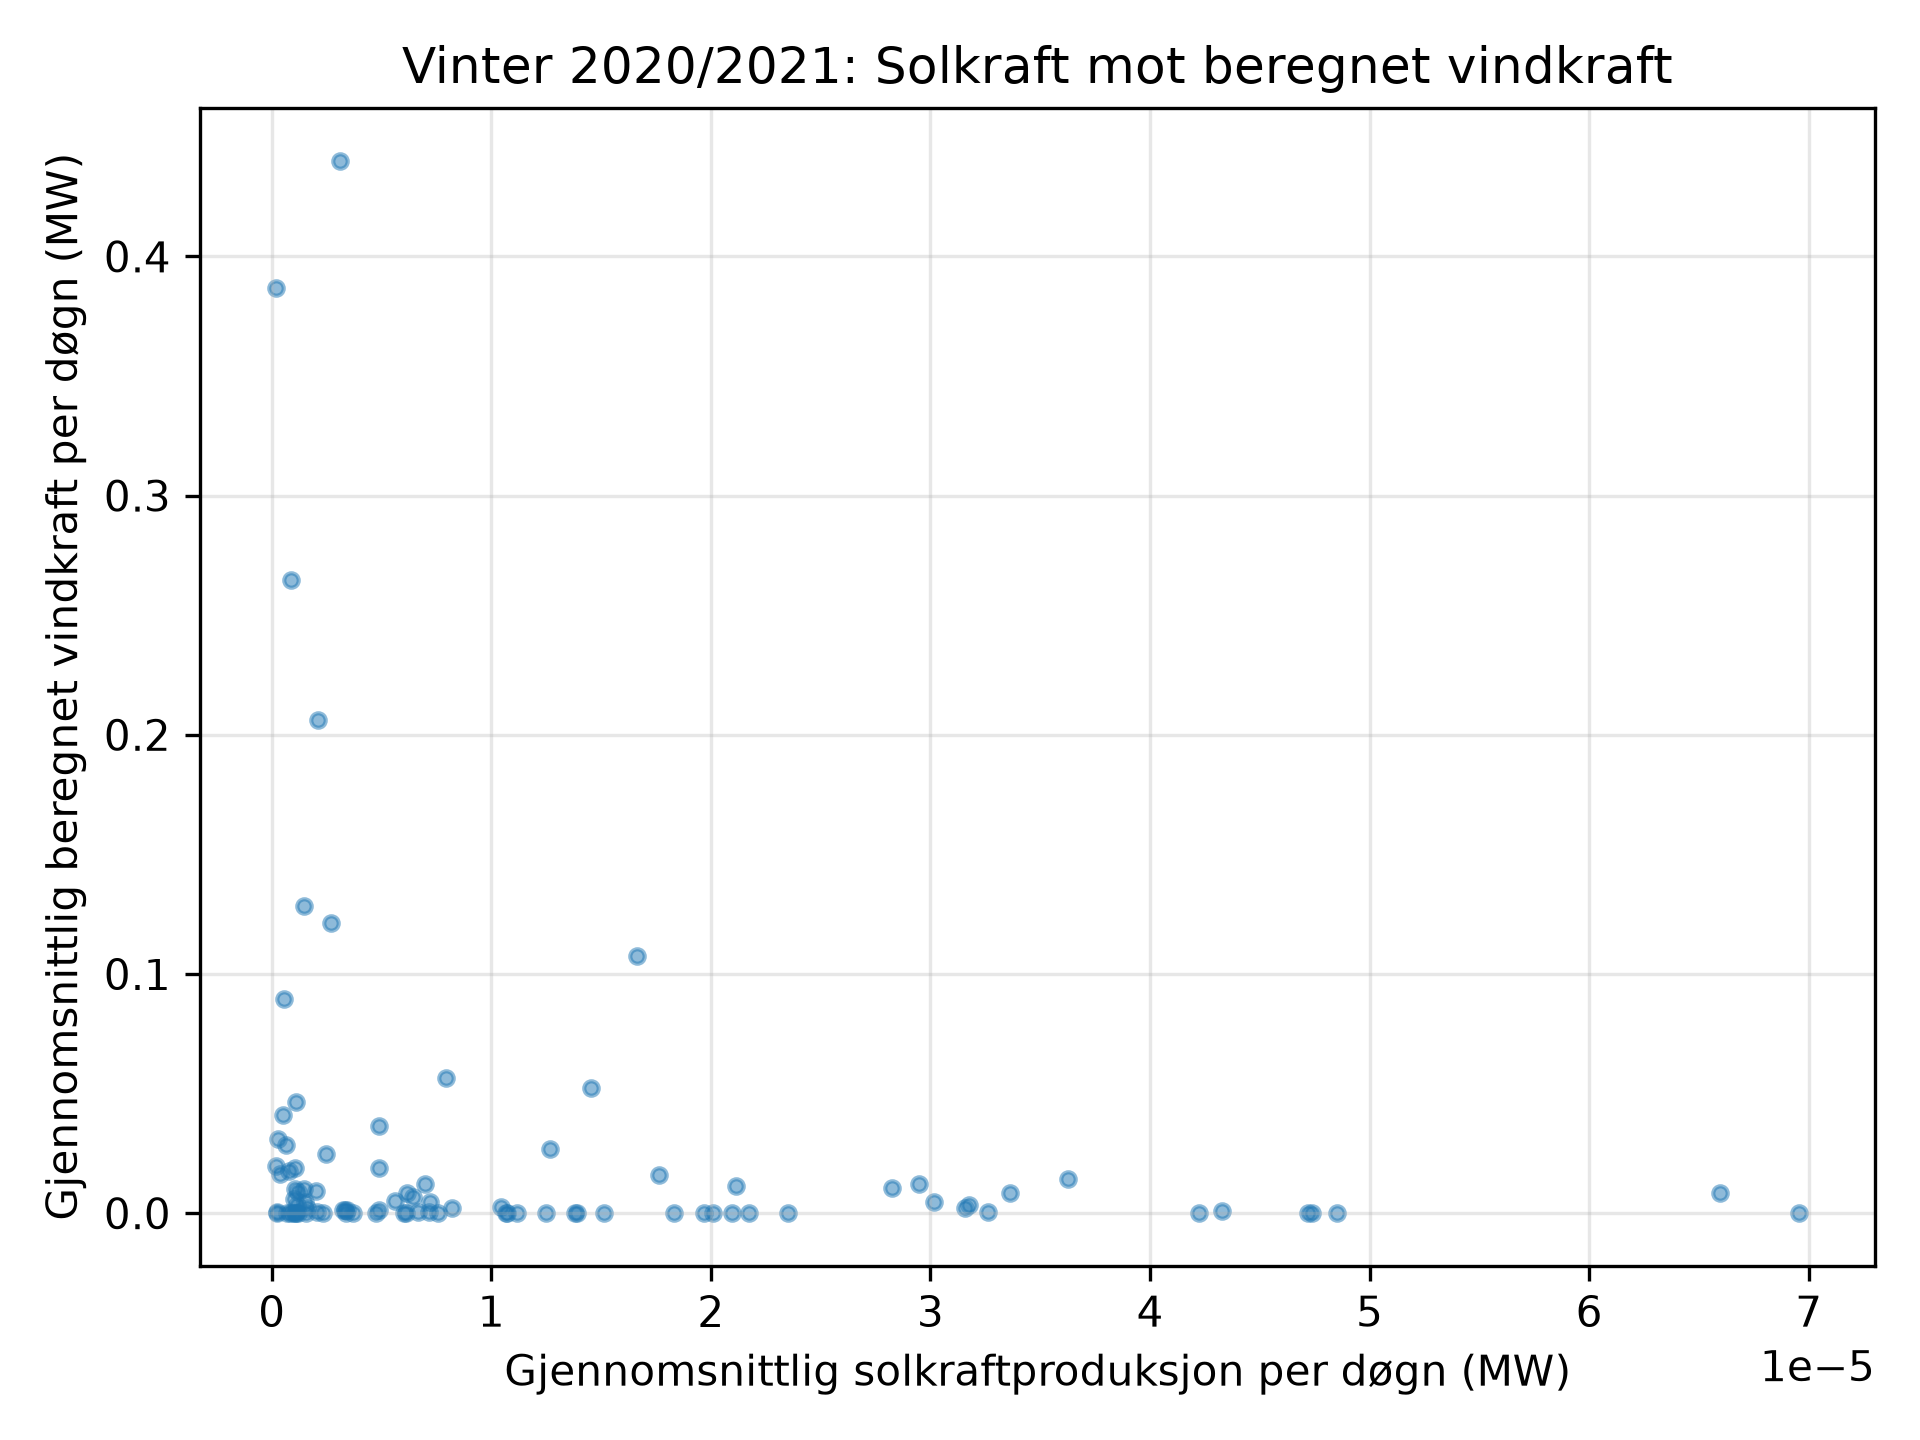
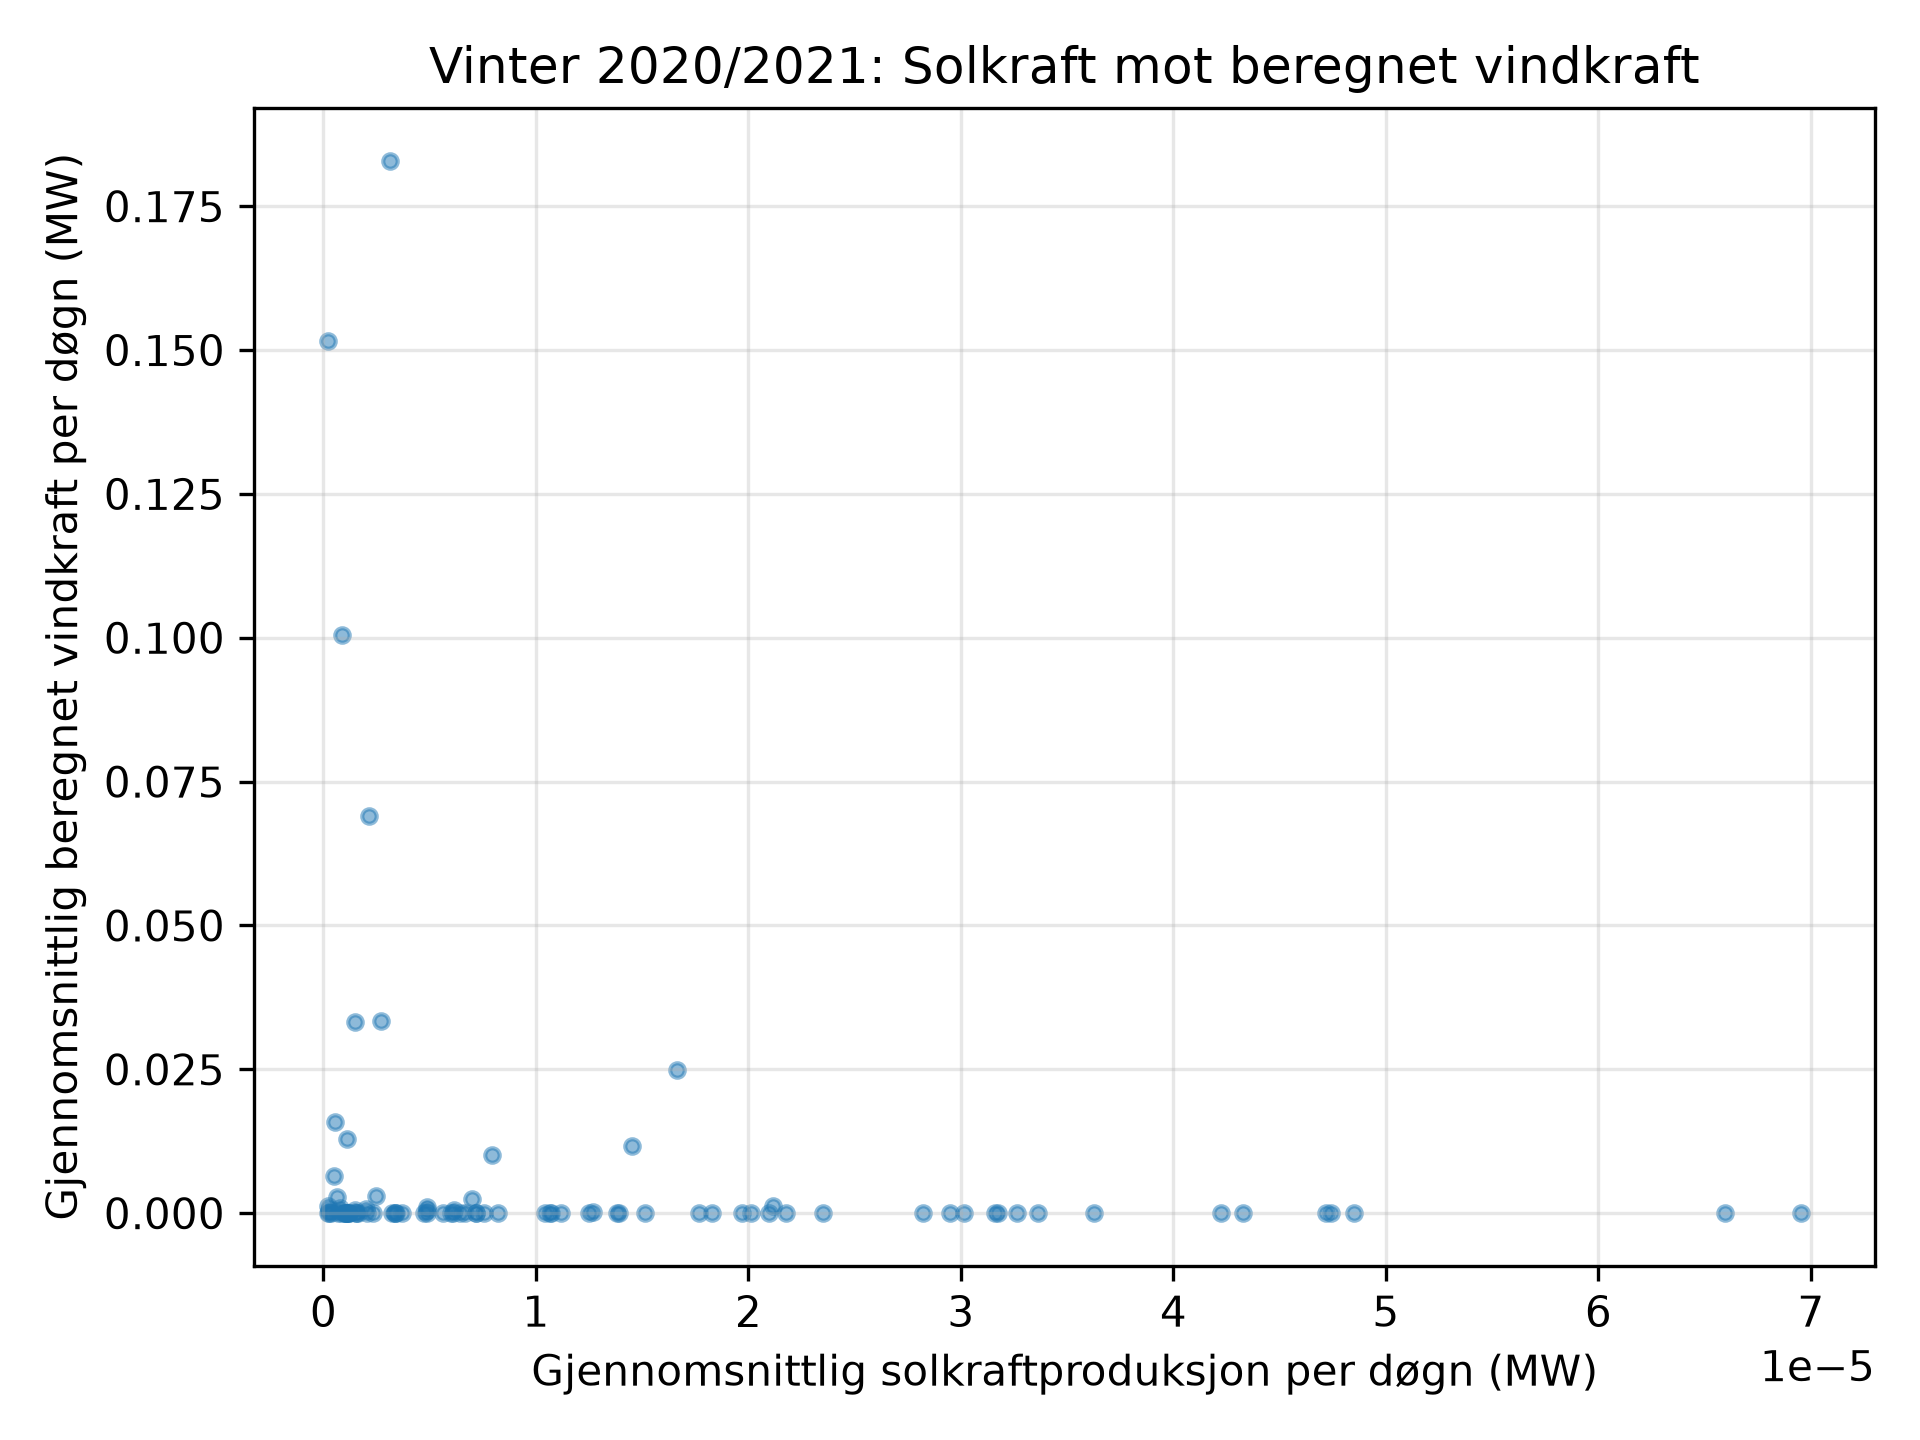
sommer og vinter scatter sammen

diff --git a/Prosjekt-ELK330/AnalyserPVGIS.py b/Prosjekt-ELK330/AnalyserPVGIS.py
@@ -166,6 +166,37 @@ korrelasjon_vinter = vinter["Solkraftproduksjon"].corr(vinter["Vindkraft"])
 print(f"Sommer 2020: r = {korrelasjon_sommer:.3f} ({len(sommer)} dager)")
 print(f"Vinter 2020/2021: r = {korrelasjon_vinter:.3f} ({len(vinter)} dager)")
 
+fig, (ax_sommer, ax_vinter) = plt.subplots(
+    1, 2, figsize=(12, 5), sharex=True, sharey=True
+)
+
+ax_sommer.scatter(
+    sommer["Solkraftproduksjon"] * 1_000_000,
+    sommer["Vindkraft"],
+    color="tab:orange",
+    alpha=0.6,
+    s=25
+)
+ax_sommer.set_title(f"Sommer 2020 ($r = {korrelasjon_sommer:.3f}$)")
+ax_sommer.grid(alpha=0.3)
+
+ax_vinter.scatter(
+    vinter["Solkraftproduksjon"] * 1_000_000,
+    vinter["Vindkraft"],
+    color="tab:blue",
+    alpha=0.6,
+    s=25
+)
+ax_vinter.set_title(f"Vinter 2020/2021 ($r = {korrelasjon_vinter:.3f}$)")
+ax_vinter.grid(alpha=0.3)
+
+fig.supxlabel("Gjennomsnittlig solkraftproduksjon per døgn (W)")
+fig.supylabel("Gjennomsnittlig beregnet vindkraft per døgn (MW)")
+
+fig.tight_layout()
+fig.savefig("PVGIS_sommer_vinter.png", dpi=300)
+plt.show()
+
 # Scatterplot sommer: juni, julig, august 2020
 plt.scatter(
     sommer["Solkraftproduksjon"], 
